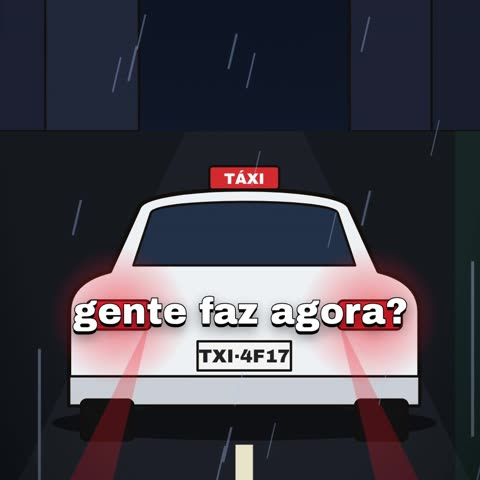
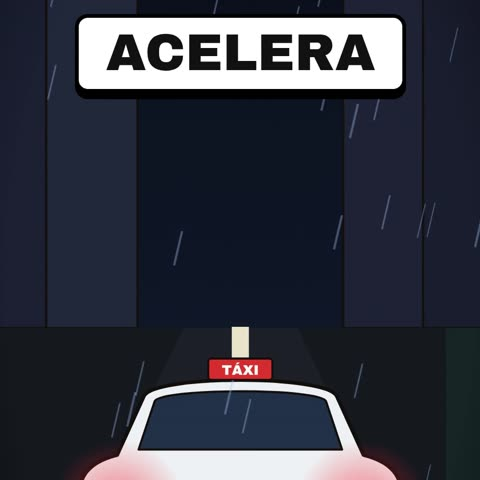
Site: mural com bordas largas, fios saindo das fotos e sumindo atrás do centro, sem sobreposição
Claude-Session: https://claude.ai/code/session_01RYEggTqAzdu1WxPJG9GMXk

diff --git a/site/index.html b/site/index.html
@@ -61,27 +61,28 @@
   .contagem b { font: 700 22px var(--mono); color: var(--acao); }
 
   /* mural: quadro de investigação (o centro é sempre a parte mais recente) */
-  .mural { container-type: inline-size; position: relative; aspect-ratio: 1 / 1.04; border-radius: 22px; overflow: hidden;
-           background: radial-gradient(circle at 30% 20%, #6e4c2e, #4f3621 75%); box-shadow: inset 0 0 0 10px #3a2817, 0 30px 60px rgba(0,0,0,.5); }
-  .mural::before { content: ""; position: absolute; inset: 0; opacity: .45; pointer-events: none;
+  .mural { container-type: inline-size; position: relative; aspect-ratio: 1 / 1.13; border-radius: 22px; overflow: hidden;
+           background: radial-gradient(circle at 30% 20%, #5e4029, #45301e 75%); box-shadow: inset 0 0 0 1.6cqw #35251a, 0 30px 60px rgba(0,0,0,.5); }
+  .mural::before { content: ""; position: absolute; inset: 0; opacity: .5; pointer-events: none;
                    background-image: radial-gradient(rgba(0,0,0,.45) 1.2px, transparent 1.6px); background-size: 9px 9px; }
   .mural svg.fios { position: absolute; inset: 0; width: 100%; height: 100%; pointer-events: none; z-index: 3; }
-  .foto { --r: 0deg; position: absolute; z-index: 2; width: 27%; margin: 0; background: #f1ede4; padding: 7% 7% 0; padding: 8px 8px 0;
-          transform: rotate(var(--r)); box-shadow: 0 10px 22px rgba(0,0,0,.45); transition: transform .25s ease, box-shadow .25s ease; cursor: pointer; }
+  .foto { --r: 0deg; position: absolute; z-index: 2; width: 27%; margin: 0; background: #f1ede4; padding: 3.2cqw 3.2cqw 0;
+          transform: rotate(var(--r)); box-shadow: 0 1.4cqw 3cqw rgba(0,0,0,.45); transition: transform .25s ease, box-shadow .25s ease; cursor: pointer; }
   .foto img { display: block; width: 100%; aspect-ratio: 1; object-fit: cover; background: #222; }
-  .foto span { display: block; text-align: center; padding: 9px 2px 11px; font: 700 2.3cqw var(--mono); letter-spacing: .08em; color: var(--tinta); white-space: nowrap; overflow: hidden; text-overflow: ellipsis; }
-  .alfinete { position: absolute; top: -8px; left: 50%; width: 16px; height: 16px; margin-left: -8px; border-radius: 50%; z-index: 4;
-              background: radial-gradient(circle at 35% 35%, #ff7a70, #c62828 70%); box-shadow: 0 3px 4px rgba(0,0,0,.5); transition: transform .25s ease; }
-  .foto.principal { width: 40%; z-index: 2; outline: 5px solid var(--acao); outline-offset: -1px; }
-  .foto:hover { transform: rotate(0deg) scale(1.08) translateY(-6px); z-index: 6; box-shadow: 0 22px 40px rgba(0,0,0,.6); }
-  .foto:hover .alfinete { transform: translateY(-3px) scale(1.15); }
-  .nota { position: absolute; z-index: 2; background: #f1ede4; color: var(--tinta); padding: 10px 14px; font: 800 3.6cqw Inter, sans-serif;
-          transform: rotate(-3deg); box-shadow: 0 8px 16px rgba(0,0,0,.4); transition: transform .25s ease; }
-  .nota:hover { transform: rotate(0deg) scale(1.06); z-index: 6; }
+  .foto span { display: block; text-align: center; padding: 1.9cqw 0 2.2cqw; font: 700 2.2cqw var(--mono); letter-spacing: .07em; color: var(--tinta); white-space: nowrap; overflow: hidden; text-overflow: ellipsis; }
+  .alfinete { position: absolute; top: 1.2cqw; left: 50%; width: 2.6cqw; height: 2.6cqw; margin-left: -1.3cqw; border-radius: 50%; z-index: 4;
+              background: radial-gradient(circle at 35% 35%, #ff7a70, #c62828 70%); box-shadow: 0 .4cqw .6cqw rgba(0,0,0,.5); transition: transform .25s ease; }
+  .foto.principal { width: 38%; z-index: 4; padding: 3.4cqw 3.4cqw 0; outline: .9cqw solid var(--acao); outline-offset: -.2cqw; }
+  .foto.principal span { font-size: 2.6cqw; }
+  .foto:hover { transform: rotate(0deg) scale(1.08) translateY(-1cqw); z-index: 7; box-shadow: 0 3cqw 6cqw rgba(0,0,0,.6); }
+  .foto:hover .alfinete { transform: translateY(-.5cqw) scale(1.15); }
+  .nota { position: absolute; z-index: 5; background: #f1ede4; color: var(--tinta); padding: 1.4cqw 2.2cqw; font: 800 2.7cqw Inter, sans-serif; white-space: nowrap;
+          transform: rotate(-2deg); box-shadow: 0 1.2cqw 2.4cqw rgba(0,0,0,.4); transition: transform .25s ease; }
+  .nota:hover { transform: rotate(0deg) scale(1.06); z-index: 7; }
   .etiqueta { position: absolute; z-index: 5; transition: transform .25s ease; }
-  .etiqueta.carimbo { font: 700 3.8cqw var(--mono); letter-spacing: .06em; color: var(--perigo); border: 3px solid var(--perigo);
-                      outline: 2px solid rgba(226,59,46,.35); outline-offset: 3px; background: rgba(241,237,228,.92); padding: 6px 12px; transform: rotate(-7deg); }
-  .etiqueta.post { background: var(--acao); color: #111; padding: 2cqw 2.8cqw; max-width: 42%; font: 800 3.2cqw/1.2 Inter, sans-serif; transform: rotate(-2deg); box-shadow: 0 8px 16px rgba(0,0,0,.4); }
+  .etiqueta.carimbo { font: 700 3.4cqw var(--mono); letter-spacing: .04em; color: var(--perigo); border: .5cqw solid var(--perigo);
+                      background: rgba(241,237,228,.94); padding: 1cqw 1.8cqw; transform: rotate(-6deg); }
+  .etiqueta.post { background: var(--acao); color: #111; padding: 1.8cqw 2.4cqw; max-width: 30%; font: 800 3cqw/1.2 Inter, sans-serif; transform: rotate(-2deg); box-shadow: 0 1.2cqw 2.4cqw rgba(0,0,0,.4); }
   .etiqueta:hover { transform: rotate(0deg) scale(1.06); }
   /* votação */
   .opcoes { display: flex; flex-wrap: wrap; gap: 14px; margin: 22px 0; }
@@ -328,22 +329,23 @@
   $("painel").innerHTML = S.painel.map((p) =>
     `<div class="caixa${p.alerta ? " alerta" : ""}"><small>${esc(p.rotulo)}</small><b>${esc(p.valor)}</b>${p.barra != null ? `<div class="medidor"><i style="width:${p.barra}%"></i></div>` : ""}</div>`).join("");
 
-  // mural: 5 polaroides em volta, a do centro é sempre a parte mais recente; fios vermelhos de cada alfinete ao centro
-  const VAGAS = [[3, 4, -4], [66, 3, 3], [2, 42, 4], [69, 44, -5], [35, 69, 3]];   // [left%, top%, rotação]
+  // mural: 5 polaroides em volta e a parte mais recente no centro; cada fio sai do meio de uma foto e some atrás da foto do centro
+  const VAGAS = [[4, 4, -3], [69, 4, 3], [3, 40, 3], [70, 41, -3], [36, 66, 2]];   // [left%, top%, rotação]
   const atual = S.partes.at(-1);
   const meio = { capa: atual.cena || atual.capa, legenda: `PARTE ${atual.n} · NO AR`, principal: true };
   const polaroide = (f, x, y, r) => `<figure class="foto${f.principal ? " principal" : ""}" style="left:${x}%;top:${y}%;--r:${r}deg"><i class="alfinete"></i><img src="${esc(f.capa)}" alt="" loading="lazy"><span>${esc(f.legenda)}</span></figure>`;
   $("mural").insertAdjacentHTML("beforeend",
-    S.mural.slice(0, 5).map((f, i) => polaroide(f, ...VAGAS[i])).join("") + polaroide(meio, 30, 24, -1)
-    + (S.notaMural ? `<div class="nota" style="left:34%;top:7%">${esc(S.notaMural)}</div>` : "")
+    S.mural.slice(0, 5).map((f, i) => polaroide(f, ...VAGAS[i])).join("") + polaroide(meio, 31, 20, 0)
+    + (S.notaMural ? `<div class="nota" style="left:50%;top:6%;translate:-50% 0">${esc(S.notaMural)}</div>` : "")
     + (S.etiquetas[0] ? `<div class="etiqueta carimbo" style="left:4%;bottom:10%">${esc(S.etiquetas[0])}</div>` : "")
-    + (S.etiquetas[1] ? `<div class="etiqueta post" style="right:5%;bottom:9%">${esc(S.etiquetas[1])}</div>` : ""));
+    + (S.etiquetas[1] ? `<div class="etiqueta post" style="right:4%;bottom:9%">${esc(S.etiquetas[1])}</div>` : ""));
   const fios = () => {
-    const m = $("mural").getBoundingClientRect(), pinos = [...$("mural").querySelectorAll(".alfinete")].map((p) => p.getBoundingClientRect());
-    const c = pinos.at(-1), pt = (r) => [r.left + r.width / 2 - m.left, r.top + r.height / 2 - m.top];
-    const [cx, cy] = pt(c);
+    const m = $("mural").getBoundingClientRect();
+    const imgs = [...$("mural").querySelectorAll(".foto img")].map((i) => i.getBoundingClientRect());
+    const pt = (r) => [r.left + r.width / 2 - m.left, r.top + r.height / 2 - m.top];
+    const [cx, cy] = pt(imgs.at(-1));
     $("fios").setAttribute("viewBox", `0 0 ${m.width} ${m.height}`);
-    $("fios").innerHTML = pinos.slice(0, -1).map((p) => { const [x, y] = pt(p); return `<line x1="${x}" y1="${y}" x2="${cx}" y2="${cy}" stroke="#d6332a" stroke-width="2.2" stroke-linecap="round"/>`; }).join("");
+    $("fios").innerHTML = imgs.slice(0, -1).map((r) => { const [x, y] = pt(r); return `<line x1="${x}" y1="${y}" x2="${cx}" y2="${cy}" stroke="#d6332a" stroke-width="${Math.max(1.6, m.width / 260)}" stroke-linecap="round"/>`; }).join("");
   };
   requestAnimationFrame(fios); addEventListener("resize", fios); addEventListener("load", fios);
 
